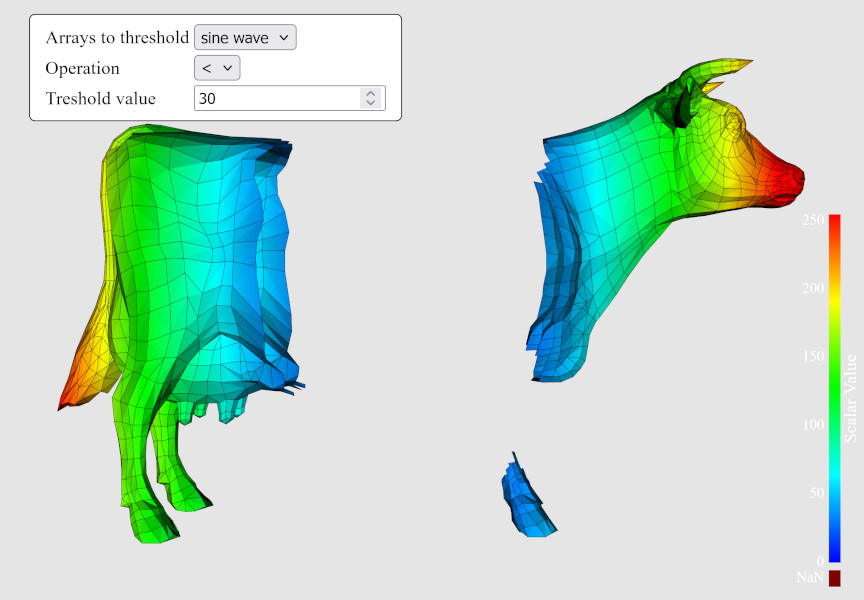
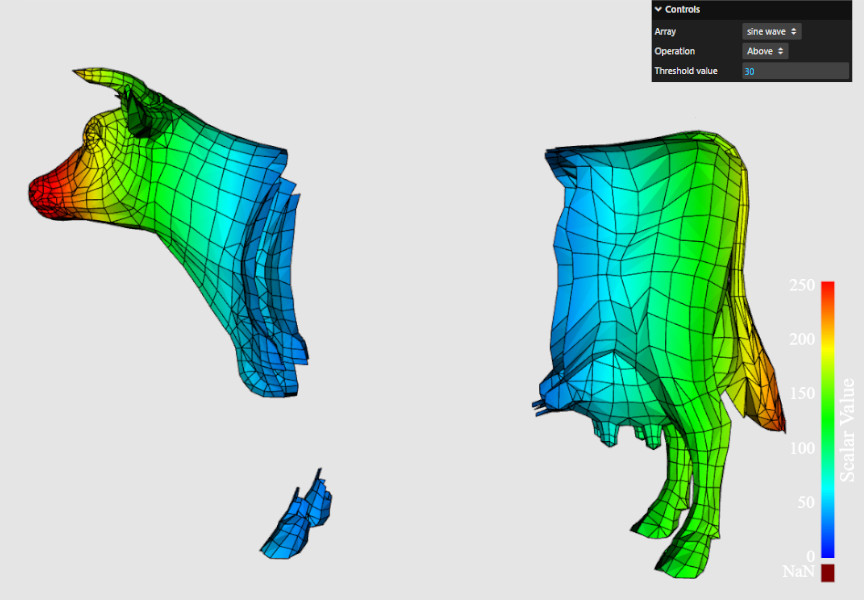
docs(thresholdpoints): fix TresholdPoint example scalarbar actor
it was too high and displayed below lil-gui

diff --git a/Sources/Filters/Core/ThresholdPoints/example/index.js b/Sources/Filters/Core/ThresholdPoints/example/index.js
@@ -38,12 +38,6 @@ const renderWindow = fullScreenRenderer.getRenderWindow();
 const lookupTable = vtkLookupTable.newInstance({ hueRange: [0.666, 0] });
 
 const reader = vtkHttpDataSetReader.newInstance({ fetchGzip: true });
-reader.setUrl(`${__BASE_PATH__}/data/cow.vtp`).then(() => {
-  reader.loadData().then(() => {
-    renderer.resetCamera();
-    renderWindow.render();
-  });
-});
 
 const calc = vtkCalculator.newInstance();
 calc.setInputConnection(reader.getOutputPort());
@@ -99,6 +93,16 @@ const actor = vtkActor.newInstance();
 actor.getProperty().setEdgeVisibility(true);
 
 const scalarBarActor = vtkScalarBarActor.newInstance();
+const defaultAutoLayout = scalarBarActor.getAutoLayout();
+scalarBarActor.setAutoLayout((helper) => {
+  defaultAutoLayout({
+    ...helper,
+    recomputeBarSegments: (textSizes) => {
+      helper.getBoxSizeByReference()[1] = 1;
+      helper.recomputeBarSegments(textSizes);
+    },
+  });
+});
 scalarBarActor.setScalarsToColors(lookupTable);
 renderer.addActor(scalarBarActor);
 
@@ -168,8 +172,13 @@ gui
   .name('Threshold value')
   .onChange(() => onCriteriaChanged(true));
 
-onCriteriaChanged(true);
-
+reader.setUrl(`${__BASE_PATH__}/data/cow.vtp`).then(() => {
+  reader.loadData().then(() => {
+    renderer.resetCamera();
+    onCriteriaChanged(true);
+    renderWindow.render();
+  });
+});
 // -----------------------------------------------------------
 // Make some variables global so that you can inspect and
 // modify objects in your browser's developer console:
